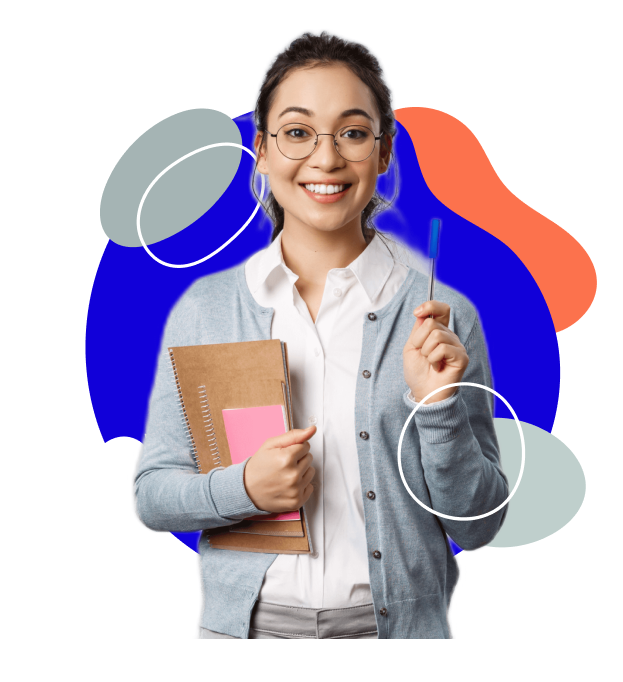
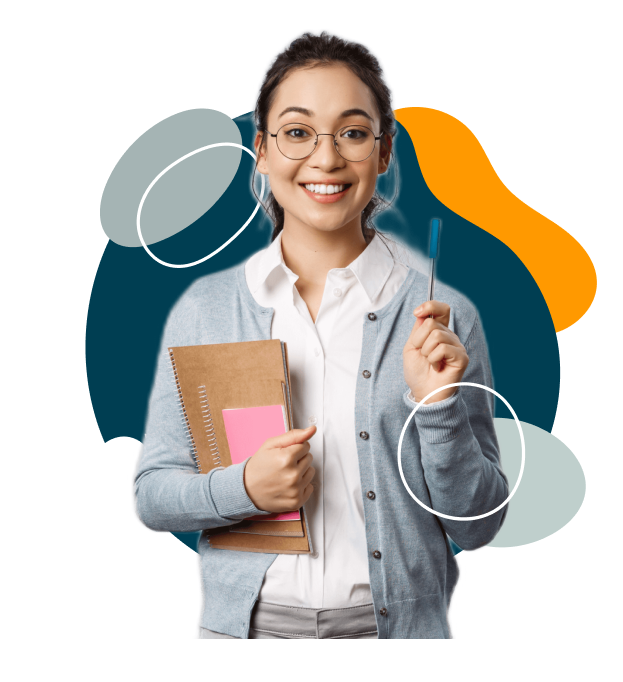
main

diff --git a/src/styles/Info/info.scss b/src/styles/Info/info.scss
@@ -11,7 +11,8 @@
       width: 100%;
       height: 6px;
       border-radius: 20px;
-      background: #1100D9;
+      background: #003E52
+    ;
       margin-bottom: 50px;
     }
 
@@ -79,7 +80,8 @@
             font-style: normal;
             font-weight: 500;
             font-size: 22px;
-            color: #1100D9;
+            color: #003E52
+          ;
           }
         }
       }
@@ -103,19 +105,22 @@
     button {
       width: 250px;
       height: 50px;
-      border: 2px solid #1100D9;
+      border: 2px solid #003E52
+    ;
       background: transparent;
       border-radius: 16px;
       font-family: 'Montserrat', sans-serif;
       font-style: normal;
       font-weight: 600;
       font-size: 18px;
-      color: #1100D9;
+      color: #003E52
+    ;
       cursor: pointer;
       transition: .4s;
 
       &:hover {
-        background: #1100D9;
+        background: #003E52
+      ;
         transform: scale(1.1);
         color: white;
       }
@@ -139,7 +144,8 @@
         width: 70%;
         height: 500px;
         border-radius: 20px;
-        border: 2px solid #1100D9;
+        border: 2px solid #003E52
+      ;
         margin-top: 70px;
         background: #fff;
         padding: 20px 80px;

diff --git a/src/components/main/Spiner.js b/src/components/main/Spiner.js
@@ -11,13 +11,13 @@ const Spiner = () => {
                 width: "200px",
                 height: "200px"
             }} viewBox="0 0 100 100" preserveAspectRatio="xMidYMid">
-                <circle cx="50" cy="50" r="32" strokeWidth="8" stroke="#2435a1"
+                <circle cx="50" cy="50" r="32" strokeWidth="8" stroke="#003E52"
                         strokeDasharray="50.26548245743669 50.26548245743669" fill="none" strokeLinecap="round">
                     <animateTransform attributeName="transform" type="rotate" dur="0.8695652173913042s"
                                       repeatCount="indefinite" keyTimes="0;1"
                                       values="0 50 50;360 50 50"></animateTransform>
                 </circle>
-                <circle cx="50" cy="50" r="23" strokeWidth="8" stroke="rgba(59, 84, 240, 0.84)"
+                <circle cx="50" cy="50" r="23" strokeWidth="8" stroke="rgba(0, 62, 82, 0.85)"
                         strokeDasharray="36.12831551628262 36.12831551628262" strokeDashoffset="36.12831551628262"
                         fill="none" strokeLinecap="round">
                     <animateTransform attributeName="transform" type="rotate" dur="0.8695652173913042s"

diff --git a/src/styles/program/program.scss b/src/styles/program/program.scss
@@ -28,16 +28,19 @@
         font-weight: 600;
         font-size: 22px;
         color: #FFFFFF;
-        background: #2435A1;
+        background: #003E52
+      ;
         border-radius: 16px;
-        border: 1px solid #2435A1;
+        border: 1px solid #003E52
+      ;
         cursor: pointer;
         transition: .4s;
 
         &:hover {
           transform: scale(1.1);
           background: transparent;
-          color: #2435A1;
+          color: #003E52
+        ;
         }
       }
     }
@@ -60,7 +63,8 @@
         width: 70%;
         height: 500px;
         border-radius: 20px;
-        border: 2px solid #1100D9;
+        border: 2px solid #003E52
+      ;
         margin-top: 70px;
         background: #fff;
         padding: 20px 80px;
@@ -145,9 +149,11 @@
     font-weight: 600;
     font-size: 17px;
     color: #FFFFFF;
-    background: #2435A1;
+    background: #003E52
+  ;
     border-radius: 16px;
-    border: 1px solid #2435A1;
+    border: 1px solid #003E52
+  ;
     cursor: pointer;
     transition: .4s;
   }

diff --git a/src/styles/tool/tool.scss b/src/styles/tool/tool.scss
@@ -28,16 +28,16 @@
         font-weight: 600;
         font-size: 22px;
         color: #FFFFFF;
-        background: #2435A1;
+        background: #003E52;
         border-radius: 16px;
-        border: 1px solid #2435A1;
+        border: 1px solid #003E52;
         cursor: pointer;
         transition: .4s;
 
         &:hover {
           transform: scale(1.1);
           background: transparent;
-          color: #2435A1;
+          color: #003E52;
         }
       }
     }
@@ -60,7 +60,7 @@
         width: 70%;
         height: 500px;
         border-radius: 20px;
-        border: 2px solid #1100D9;
+        border: 2px solid #003E52;
         margin-top: 70px;
         background: #fff;
         padding: 20px 80px;
@@ -146,9 +146,9 @@
     font-weight: 600;
     font-size: 17px;
     color: #FFFFFF;
-    background: #2435A1;
+    background: #003E52;
     border-radius: 16px;
-    border: 1px solid #2435A1;
+    border: 1px solid #003E52;
     cursor: pointer;
     transition: .4s;
   }

diff --git a/src/components/main/home/hero.js b/src/components/main/home/hero.js
@@ -8,7 +8,7 @@ const Hero = () => {
             <div className="container">
                 <div className="hero-general">
                     <div>
-                        <h1 className="hero-general__title" style={{fontSize: media(30, 58), marginBottom: media(20, 60)}}>Талып Акун атындагы орто мектеп</h1>
+                        <h1 className="hero-general__title" style={{fontSize: media(30, 50), marginBottom: media(20, 60)}}>Зиямидин Каримбеков атындагы орто мектеби </h1>
                         <p className="hero-general__desc" style={{fontSize: media(15, 20)}}>Биздин эң сонун мектеп менен таанышууну каалагандардын
                             бардыгын тосуп алууга
                             кубанычтабыз!</p>

diff --git a/src/styles/Error/error.scss b/src/styles/Error/error.scss
@@ -20,7 +20,8 @@
       font-weight: 900;
       line-height: 24px;
       letter-spacing: 0.2px;
-      color: #2435A1;
+      color:#003E52
+    ;
 
     }
     button {
@@ -33,8 +34,10 @@
       line-height: 24px;
       text-align: center;
       letter-spacing: 0.2px;
-      color: #2435A1;
-      border: 3px solid #2435A1;
+      color: #003E52
+    ;
+      border: 3px solid #003E52
+    ;
       border-radius: 20px;
       cursor: pointer
     }

diff --git a/src/styles/Header/header.scss b/src/styles/Header/header.scss
@@ -1,5 +1,6 @@
 #header {
-  background: rgba(36, 53, 161, 0.84);
+  background: rgba(0, 62, 82, 0.85)
+;
   backdrop-filter: blur(5px);
   position: fixed;
   width: 100%;
@@ -77,7 +78,8 @@
 
 /* Изменение цвета выпадающих ссылок при наведении курсора */
 .dropdown-content a:hover {
-  background-color: #2435A1;
+  background-color: #003E52
+;
   border-radius: 10px;
   color: #FFFFFF;
 }

diff --git a/src/styles/Hero/hero.scss b/src/styles/Hero/hero.scss
@@ -36,7 +36,8 @@
     &__btn {
       border: 1px solid #fff;
       font-family: 'Montserrat', sans-serif;
-      color: #2435A1;
+      color: #003E52
+    ;
       background: #FFFFFF;
       border-radius: 18px;
       transition: .4s;
@@ -141,6 +142,7 @@
     margin-bottom: 30px;
   }
   #hero {
-    background: #2435A1;
+    background: #003E52
+  ;
   }
 }

diff --git a/src/styles/navbar.scss b/src/styles/navbar.scss
@@ -147,7 +147,7 @@
 
 /* Изменение цвета выпадающих ссылок при наведении курсора */
 .dropdown-content__2 a:hover {
-  background-color: #2435A1;
+  background-color: #003E52;
   border-radius: 10px;
   color: #000;
 }

diff --git a/src/styles/App.css b/src/styles/App.css
@@ -26,6 +26,7 @@ a, a:hover {
 
 ::-webkit-scrollbar-thumb{
     /*background: #2435A1;*/
-    background: #2435A1;
+    background:#003E52
+;
     border-radius: 50px;
 }
